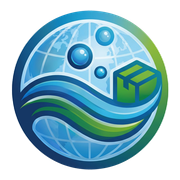
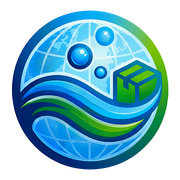
Update site content, styles, and images

diff --git a/index.html b/index.html
@@ -123,7 +123,7 @@
 <div class="bento">
 <a href="products.html#corrugated" class="tile big reveal"><img src="assets/img/corrugated-shipping-carton.jpg" alt="Corrugated cardboard shipping carton" width="1050" height="1400" loading="lazy" decoding="async"><div class="txt"><span class="num">01</span><h3>Corrugated Boxes &amp; Cartons</h3><p>3, 5 and 7-ply cartons, die-cut boxes, partitions, heavy-duty export cases and corrugated pallets.</p></div></a>
 <a href="products.html#cartons" class="tile reveal"><img src="assets/img/kraft-gift-boxes.jpg" alt="Kraft gift boxes with printed paper tape" width="1024" height="683" loading="lazy" decoding="async"><div class="txt"><span class="num">02</span><h3>Printed Cartons &amp; Gift Boxes</h3><p>Mailer, folding and rigid boxes in your brand.</p></div></a>
-<a href="products.html#bags" class="tile reveal"><img src="assets/img/kraft-paper-texture.jpg" alt="Natural brown kraft paper" width="1024" height="575" loading="lazy" decoding="async"><div class="txt"><span class="num">03</span><h3>Paper Bags &amp; Food Packaging</h3><p>Kraft bags, food boxes, trays and paper labels.</p></div></a>
+<a href="products.html#bags" class="tile reveal"><img src="assets/img/kraft-paper-carry-bags.jpg" alt="Brown kraft and white paper carry bags with flat paper handles" width="1400" height="1100" loading="lazy" decoding="async"><div class="txt"><span class="num">03</span><h3>Paper Bags &amp; Food Packaging</h3><p>Kraft bags, food boxes, trays and paper labels.</p></div></a>
 <a href="products.html#protective" class="tile big reveal"><img src="assets/img/paper-protective-packaging-gift-box.jpg" alt="Bottle cushioned with paper fill inside a gift box" width="1280" height="853" loading="lazy" decoding="async"><div class="txt"><span class="num">04</span><h3>Paper Protective Packaging</h3><p>Honeycomb paper, crinkle and void fill, paper edge protectors, kraft paper tape and moulded pulp — plastic-free cushioning.</p></div></a>
 </div>
 </div>

diff --git a/products.html b/products.html
@@ -102,7 +102,8 @@
 
 <section id="bags" class="sec">
 <div class="wrap g2 start">
-<div class="reveal"><div class="rel"><img src="assets/img/kraft-paper-texture.jpg" alt="Natural brown kraft paper" width="1024" height="575" class="cover rounded" loading="lazy" decoding="async" style="height:440px"><span class="num-tag" aria-hidden="true">03</span></div>
+<div class="reveal"><div class="rel"><img src="assets/img/kraft-paper-carry-bags.jpg" alt="Brown kraft, white and green paper carry bags with flat paper handles" width="1400" height="1100" class="cover rounded" loading="lazy" decoding="async" style="height:440px"><span class="num-tag" aria-hidden="true">03</span></div>
+<p style="font-size:12px;color:#6B7486;margin-top:8px">Photo: Bolsapubli, <a href="https://commons.wikimedia.org/wiki/File:Bolsas-de-asa-plana-interior-bolsapubli.jpg" rel="nofollow noopener" target="_blank" style="color:#6B7486">CC BY-SA 3.0</a></p>
 <table class="spec"><tbody><tr><th scope="row">Papers</th><td>Brown kraft, white kraft, food-grade board</td></tr><tr><th scope="row">Handles</th><td>Twisted paper, flat paper or die-cut</td></tr><tr><th scope="row">Barrier</th><td>Water-based grease-resistant coatings</td></tr><tr><th scope="row">Compliance</th><td>Food-contact grade paper · FSC® on request</td></tr></tbody></table></div>
 <div class="reveal">
 <p class="eyebrow">Product line 03</p>

diff --git a/assets/css/style.css b/assets/css/style.css
@@ -34,7 +34,7 @@ p{margin:0}
 .site-header{background:#fff;border-bottom:1px solid var(--line);position:sticky;top:0;z-index:50}
 .site-header .wrap{display:flex;justify-content:space-between;align-items:center;height:84px;gap:24px}
 .brand{display:flex;align-items:center;gap:12px;text-decoration:none}
-.brand img{width:50px;height:50px}
+.brand img{width:50px;height:50px;filter:drop-shadow(0 2px 6px rgba(19,48,110,.28))}
 .brand span{font-family:var(--font-logo);font-weight:600;font-size:23px;letter-spacing:-.01em;color:var(--navy-700)}
 .brand b{font-weight:600;color:var(--green-600)}
 .nav{display:flex;gap:32px;align-items:center;font-weight:500;font-size:15px}
@@ -299,4 +299,5 @@ input:focus,select:focus,textarea:focus{outline:2px solid var(--green-500);outli
   .cta-box .g2{padding:40px 24px}
   .mv{padding:32px}.mv p{font-size:22px}
   .topbar .wrap>span{display:none}
+  .brand img{width:46px;height:46px}.brand span{font-size:21px}
 }

diff --git a/README.md b/README.md
@@ -19,5 +19,8 @@ Hosted on GitHub Pages: https://jaypal5478.github.io/oxy-pack-global/
 4. Tick "Enforce HTTPS".
 5. Replace `https://jaypal5478.github.io/oxy-pack-global` with the new domain in all `.html` files, `sitemap.xml` and `robots.txt`.
 
+## Photo credits
+- Paper carry bags photo: "Bolsas de asa plana" by Bolsapubli, CC BY-SA 3.0, via Wikimedia Commons (https://commons.wikimedia.org/wiki/File:Bolsas-de-asa-plana-interior-bolsapubli.jpg). Replace with your own product photos when available.
+
 ## Quote form
 The form posts to FormSubmit (free) at sales@oxypackglobal.com. The first submission sends an activation email to that inbox — click the link once to start receiving enquiries.
